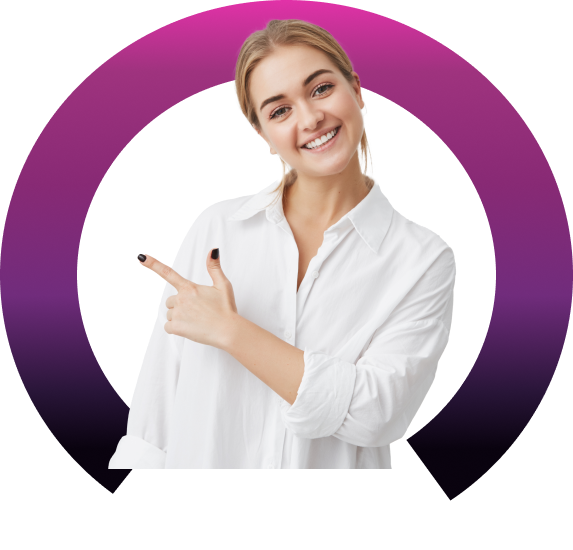
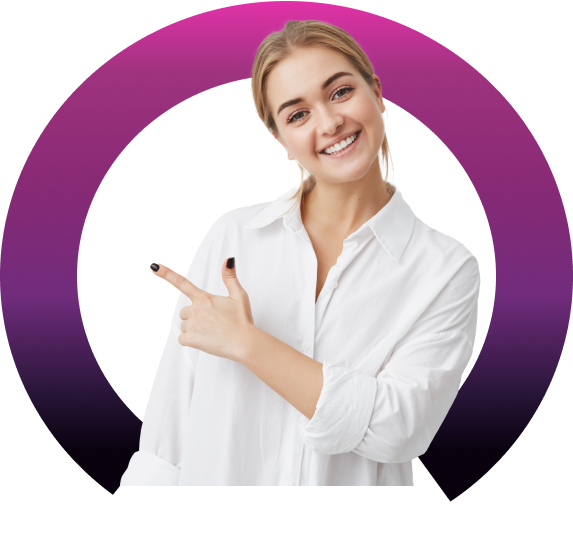
fix style MentorSection

diff --git a/src/components/MentorSection/MentorSection.module.scss b/src/components/MentorSection/MentorSection.module.scss
@@ -50,8 +50,6 @@
 
       @media (min-width: 1280px) {
         flex-direction: row;
-        justify-content: center;
-        align-items: center;
         margin-bottom: 48px;
       }
 
@@ -68,15 +66,17 @@
       padding: 20px;
       width: 100%;
       max-width: 607px;
+      margin-bottom: 5px;
       position: relative;
-      transform: translateY(-10vw);
+      transform: translateY(-3.5vw);
       @include mx.apply-font-styles(var.$text-20-font);
       font-weight: 400;
       font-size: 14px;
       z-index: 3;
 
       @media (min-width: 660px) {
-        transform: translateY(-80px);
+        transform: translateY(-23px);
+        margin-bottom: 10px;
       }
 
       @include mx.media-q("md") {
@@ -84,7 +84,7 @@
       }
 
       @media (min-width: 1280px) {
-        transform: translate(15px, 10px);
+        transform: translateX(15px);
       }
 
       .text_mb {
@@ -99,11 +99,11 @@
       position: relative;
       width: clamp(288px, 92vw, 573px);
       height: clamp(282px, 87vw, 550px);
-      transform: translateY(9vw);
+      transform: translateY(4vw);
       flex-shrink: 0;
 
       @media (min-width: 660px) {
-        transform: translateY(40px);
+        transform: translateY(23px);
       }
 
       @media (min-width: 1280px) {
